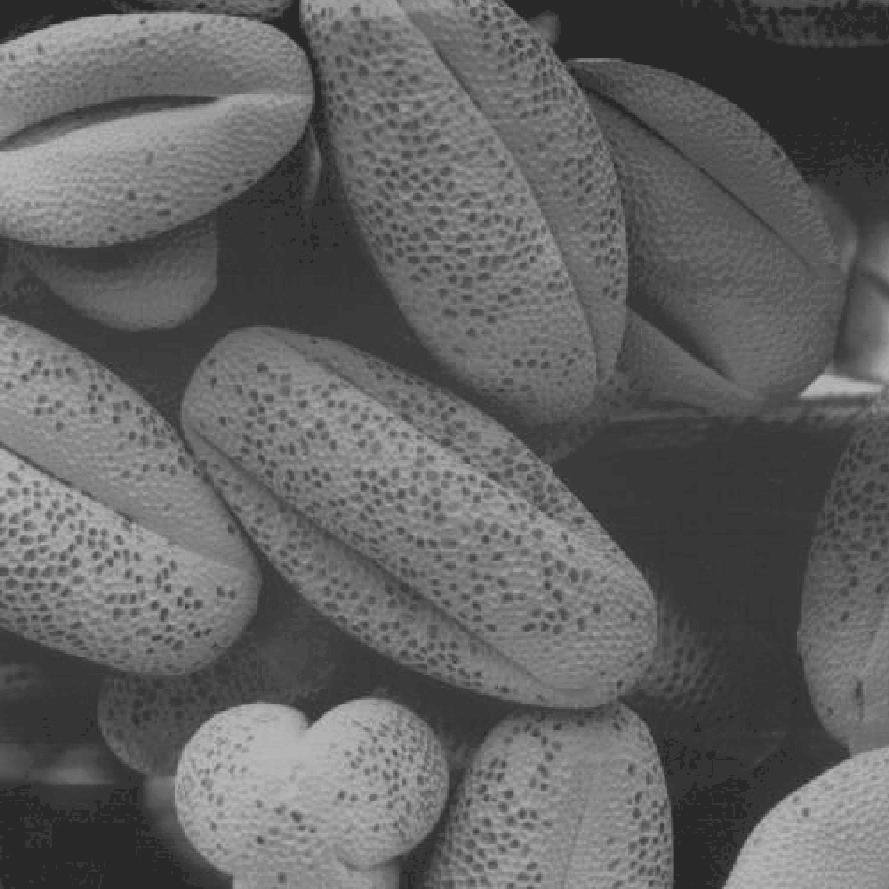
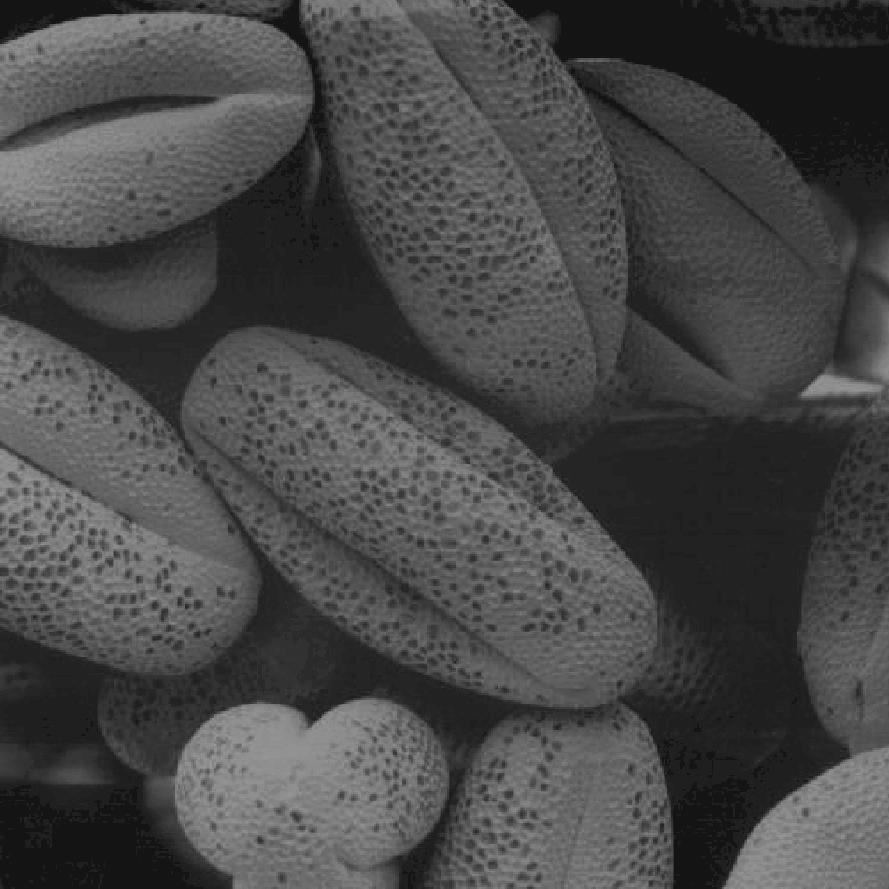
Alteração para calculo automático dos coeficientes da reta e função da reta.

diff --git a/atividade02_pdi/atividade02_pdi.m b/atividade02_pdi/atividade02_pdi.m
@@ -1,70 +1,46 @@
-% 3 for , cada um uma parte da equação, do zero até o ponto 1, do ponto 1 ao ponto 2 e do ponto 2 até 255
-% colocar esses valores em um vetor, e aplicar a imagem, fazer um plot para o vetor
+%Atividade 02 de Processamento de imagens , entrega 02/04/2024
+%Alunos : Alan Lima Marques, Thiago Jacomo, Guilherme Inoue
 
 % Carregando a imagem original e a imagem de saída como uma matriz de zeros
 img = imread ("pollen.jpg");
 img_saida = zeros(size(img));
-img_saida2 = zeros(size(img));
-%90,40
-%160,220
 
 %Definindo os pontos para alteração na curva de contrates
 p0 = [0,0]     %ponto inicial
-p1 = [90,40]   %ponto personalizado 1
-p2 = [140,200] %ponto personalizado 2
+%p1 = [90,40]   %ponto personalizado 1
+p1 = [90,20]   %ponto personalizado 1
+%p2 = [140,200] %ponto personalizado 2
+p2 = [160,220] %ponto personalizado 2
 p3 = [255,255] %ponto final
-p4 = [95,45] %ponto personalizado 3
-p5 = [145,210] %ponto personalizado 4
 
-%Parâmetros para as funções
-%Função 1 : y = (4/9)x
-%Função 2 : y = (16/5)x - 248
-%Função 3 : y = (11/23)x + (3060/23)
+%Calculando os coeficientes angulares das retas
+m0 =  ( p1(2) - p0(2) ) / (p1(1) - p0(1))  % Reta p0 -> p1
+m1 =  ( p2(2) - p1(2) ) / (p2(1) - p1(1))  % Reta p1 -> p2
+m2 =  ( p3(2) - p2(2) ) / (p3(1) - p2(1))  % Reta p2 -> p3
 
-
-%Função 4 : y = 0.65x
-%Função 5 : y = 2.4285x + 144.28
-%Função 6 : y = (1/3)x + 170
-
-%Montando a função de transformação
+%Iniciando a função de transformação
 funcao =zeros(256);
 funcao2 = zeros(256);
 
 %Aplicando Função 1
-for i = 0:90
-  funcao(i+1) = (4/9)*i ;
+for i = 0:p1(1)
+  funcao(i+1) = p0(2) + m0 * (i - p0(1)) ;
  endfor
 
 %Aplicando Função 2
-for i= 91:140
-  funcao(i+1) = (16/5)*i -248 ;
+for i = p1(1)+1:p2(1)
+  funcao(i+1) = p1(2) + m1 * (i - p1(1)) ;
  endfor
 
 %Aplicand Função 3
-for i = 141:255
-  funcao(i+1) = (11/23)*i + (3060/23);
+for i = p2(1)+1:p3(1)
+  funcao(i+1) = p2(2) + m2 * (i - p2(1)) ;
 endfor
-
-%Segunda função
-for i=0:p4(1)
-funcao2(i+1) = 0.473*i;
-endfor
-
-for i=p4(1)+1:p5(1)
- funcao2(i+1) = 3.3*i  - 268.5;
-endfor
-
-for i = p5(1)+1:255
- funcao2(i+1) = (0.409)*i + 150.68;
-endfor
-
 
 %Plotando a função de transformação
 x = 0:255;
 plot(x,funcao)
-figure, plot(x,funcao2)
 
-%Criando a imagem de saída
 %Obtendo dimensões da imagem original
 rows = size (img,1);
 cols = size (img,2);
@@ -75,24 +51,23 @@ for i=1:rows
 
     intensidade_pixel = img(i,j);
     img_saida(i,j) = funcao(floor(intensidade_pixel));
-    img_saida2(i,j) = funcao2(floor(intensidade_pixel));
-    
+
   endfor
 endfor
 
 %Convertendo para uint8...
 uint8img_saida = uint8(img_saida);
-uint8img_saida2 = uint8(img_saida2);
 
 %Exibindo resultado
 figure, imshow(img)
 figure, imshow(uint8img_saida)
-figure, imshow(uint8img_saida2)
 
 %Salvando no disco
 imwrite(uint8img_saida,"imgsaida.jpg")
-imwrite(uint8img_saida2,"imgsaida2.jpg")
 
-% Comparação das imagens : 
-% O alongamento de constrate com os pontos p4(95,45) e p5(145,210) gerou uma imagem mais nítida e com menos pixels pretos se destacando
-
+% Comparação das imagens :
+% Foram testados dois conjuntos de pontos para alteração da curva de contrates da imagem
+% sendo esses a =(90,40) b =(140,200) e c =(90,20) d=(160,220)
+% o resultado com os pontos c e d ficou mais escuro ,
+% porém o resultado com os pontos a e b tiveram alguns pixels preto se destacando de maneira estranha , como pode ser visto no canto inferior esquerdo da imagem
+% Os resultados podem ser comparados nos arquivos imgsaida.jpg e imgsaida1.jpg
